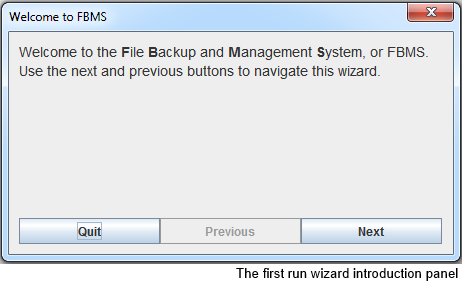
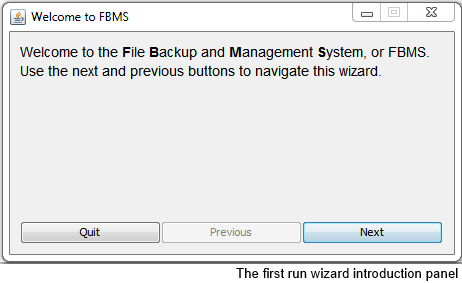
Startup wizard now a JFrame (has a taskbar entry); updated manual images
git-svn-id: http://fbms.googlecode.com/svn/trunk@410 c375ce47-9a4c-63b9-7dad-5ffa0e8ccef7

Changed region(s): [[0.0, 0.0, 1.0, 0.9329]]

diff --git a/main/src/cmpt370/fbms/gui/FirstStartWizard.java b/main/src/cmpt370/fbms/gui/FirstStartWizard.java
@@ -30,8 +30,8 @@ import java.io.FileOutputStream;
 import java.io.IOException;
 
 import javax.swing.JButton;
-import javax.swing.JDialog;
 import javax.swing.JFileChooser;
+import javax.swing.JFrame;
 import javax.swing.JLabel;
 import javax.swing.JOptionPane;
 import javax.swing.JPanel;
@@ -46,7 +46,7 @@ import cmpt370.fbms.Main;
  */
 public class FirstStartWizard
 {
-	public static JDialog frame;
+	public static JFrame frame;
 	public static int currentPanel = 1;
 	public static JTextField liveDirectoryField;
 	public static JTextField backupDirectoryField;
@@ -59,7 +59,7 @@ public class FirstStartWizard
 		Main.logger.info("Started first run wizard");
 
 		// Create the dialog window
-		frame = new JDialog();
+		frame = new JFrame();
 		frame.setTitle("Welcome to FBMS");
 		frame.setSize(new Dimension(450, 250));
 		frame.setLocationRelativeTo(null);
